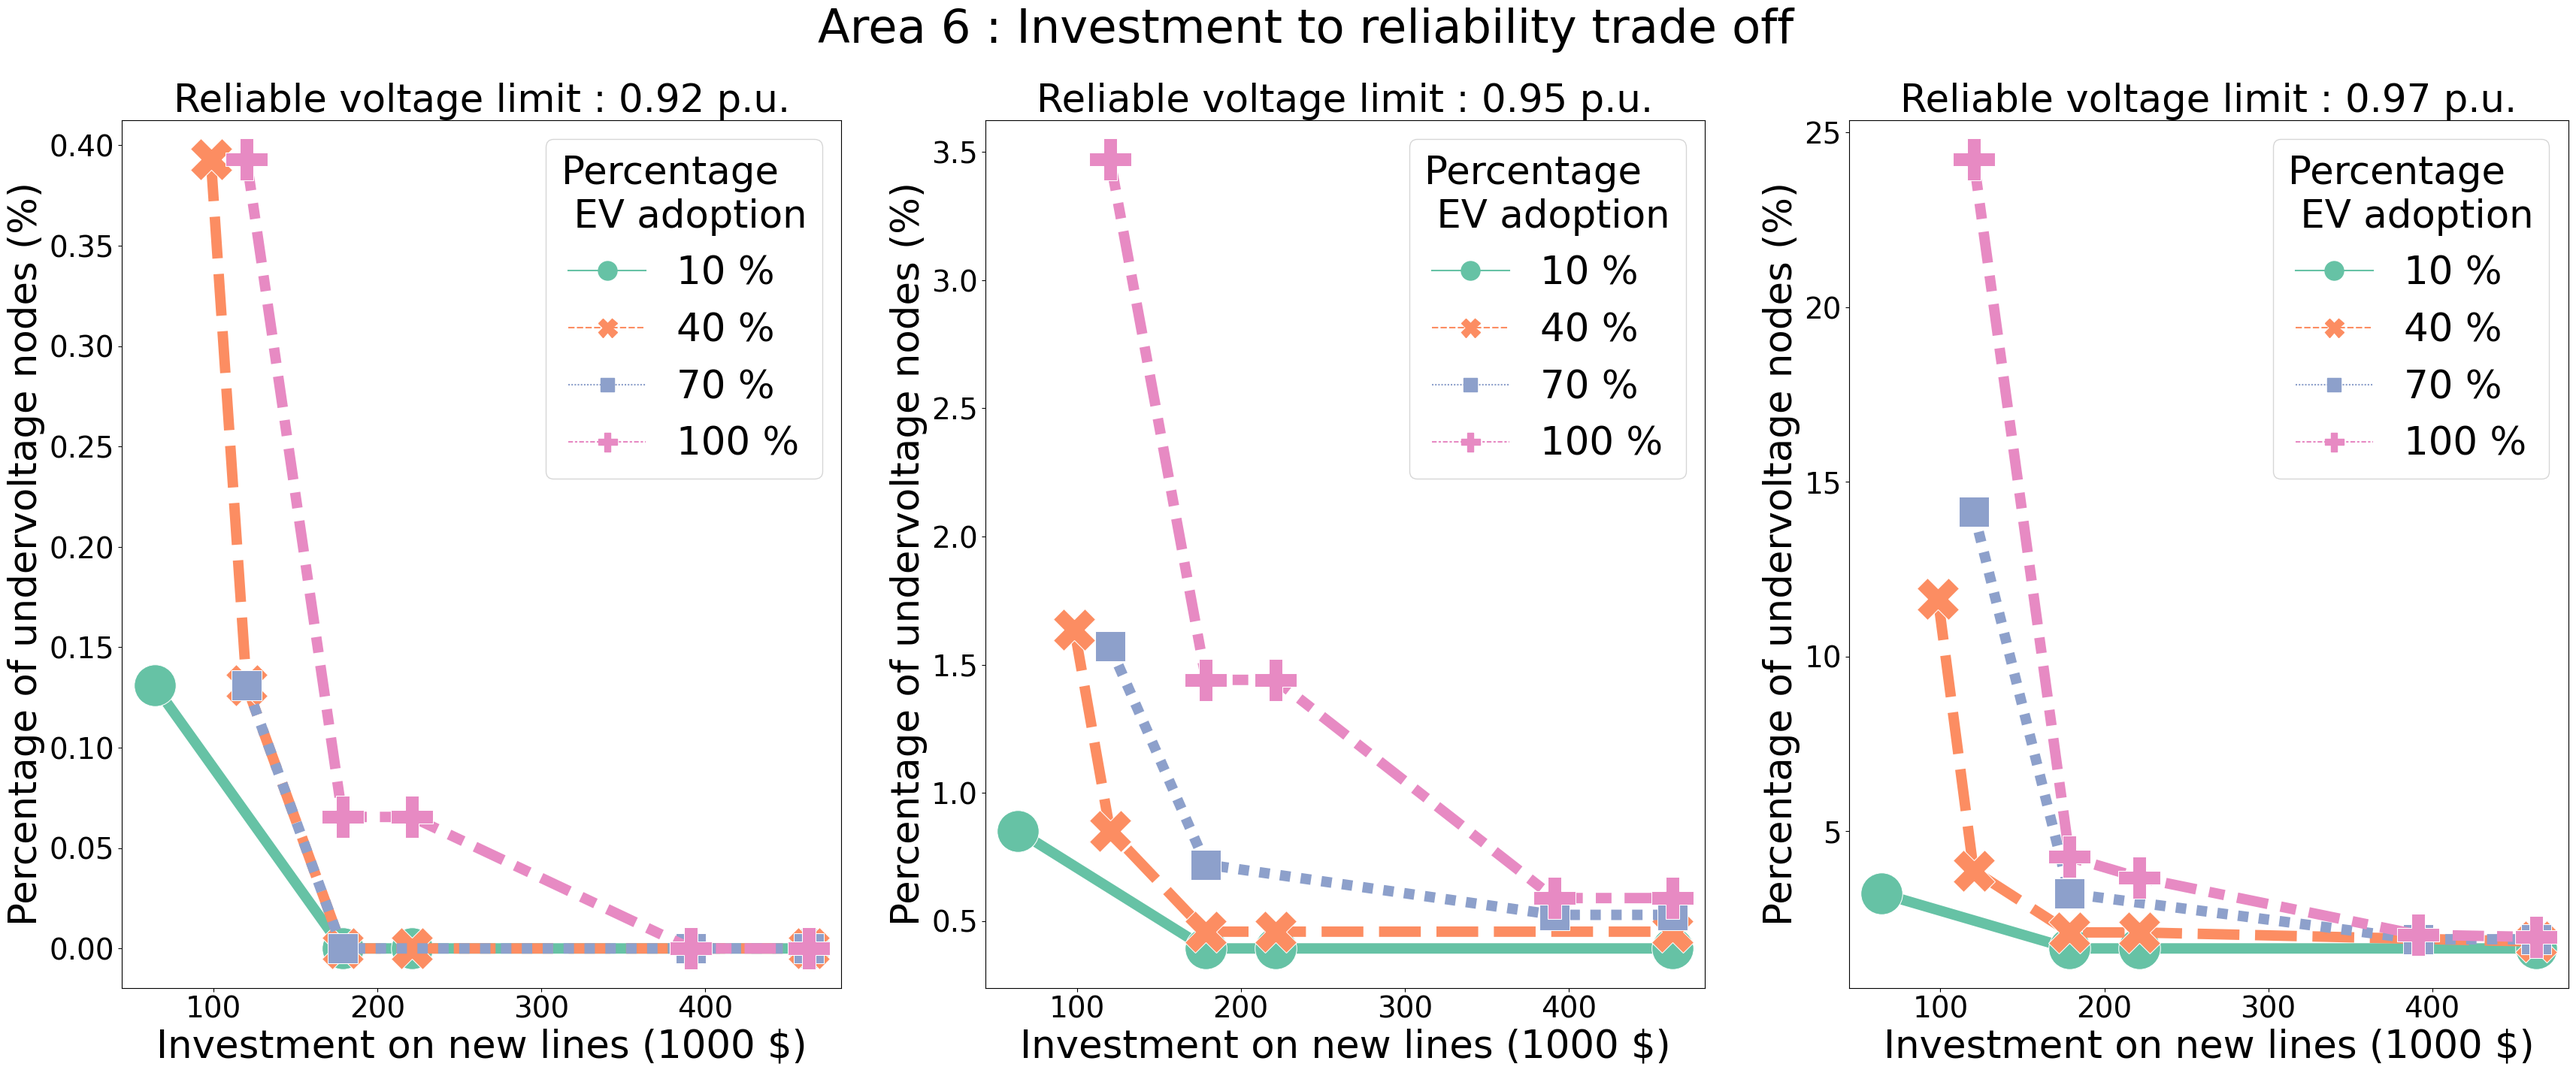
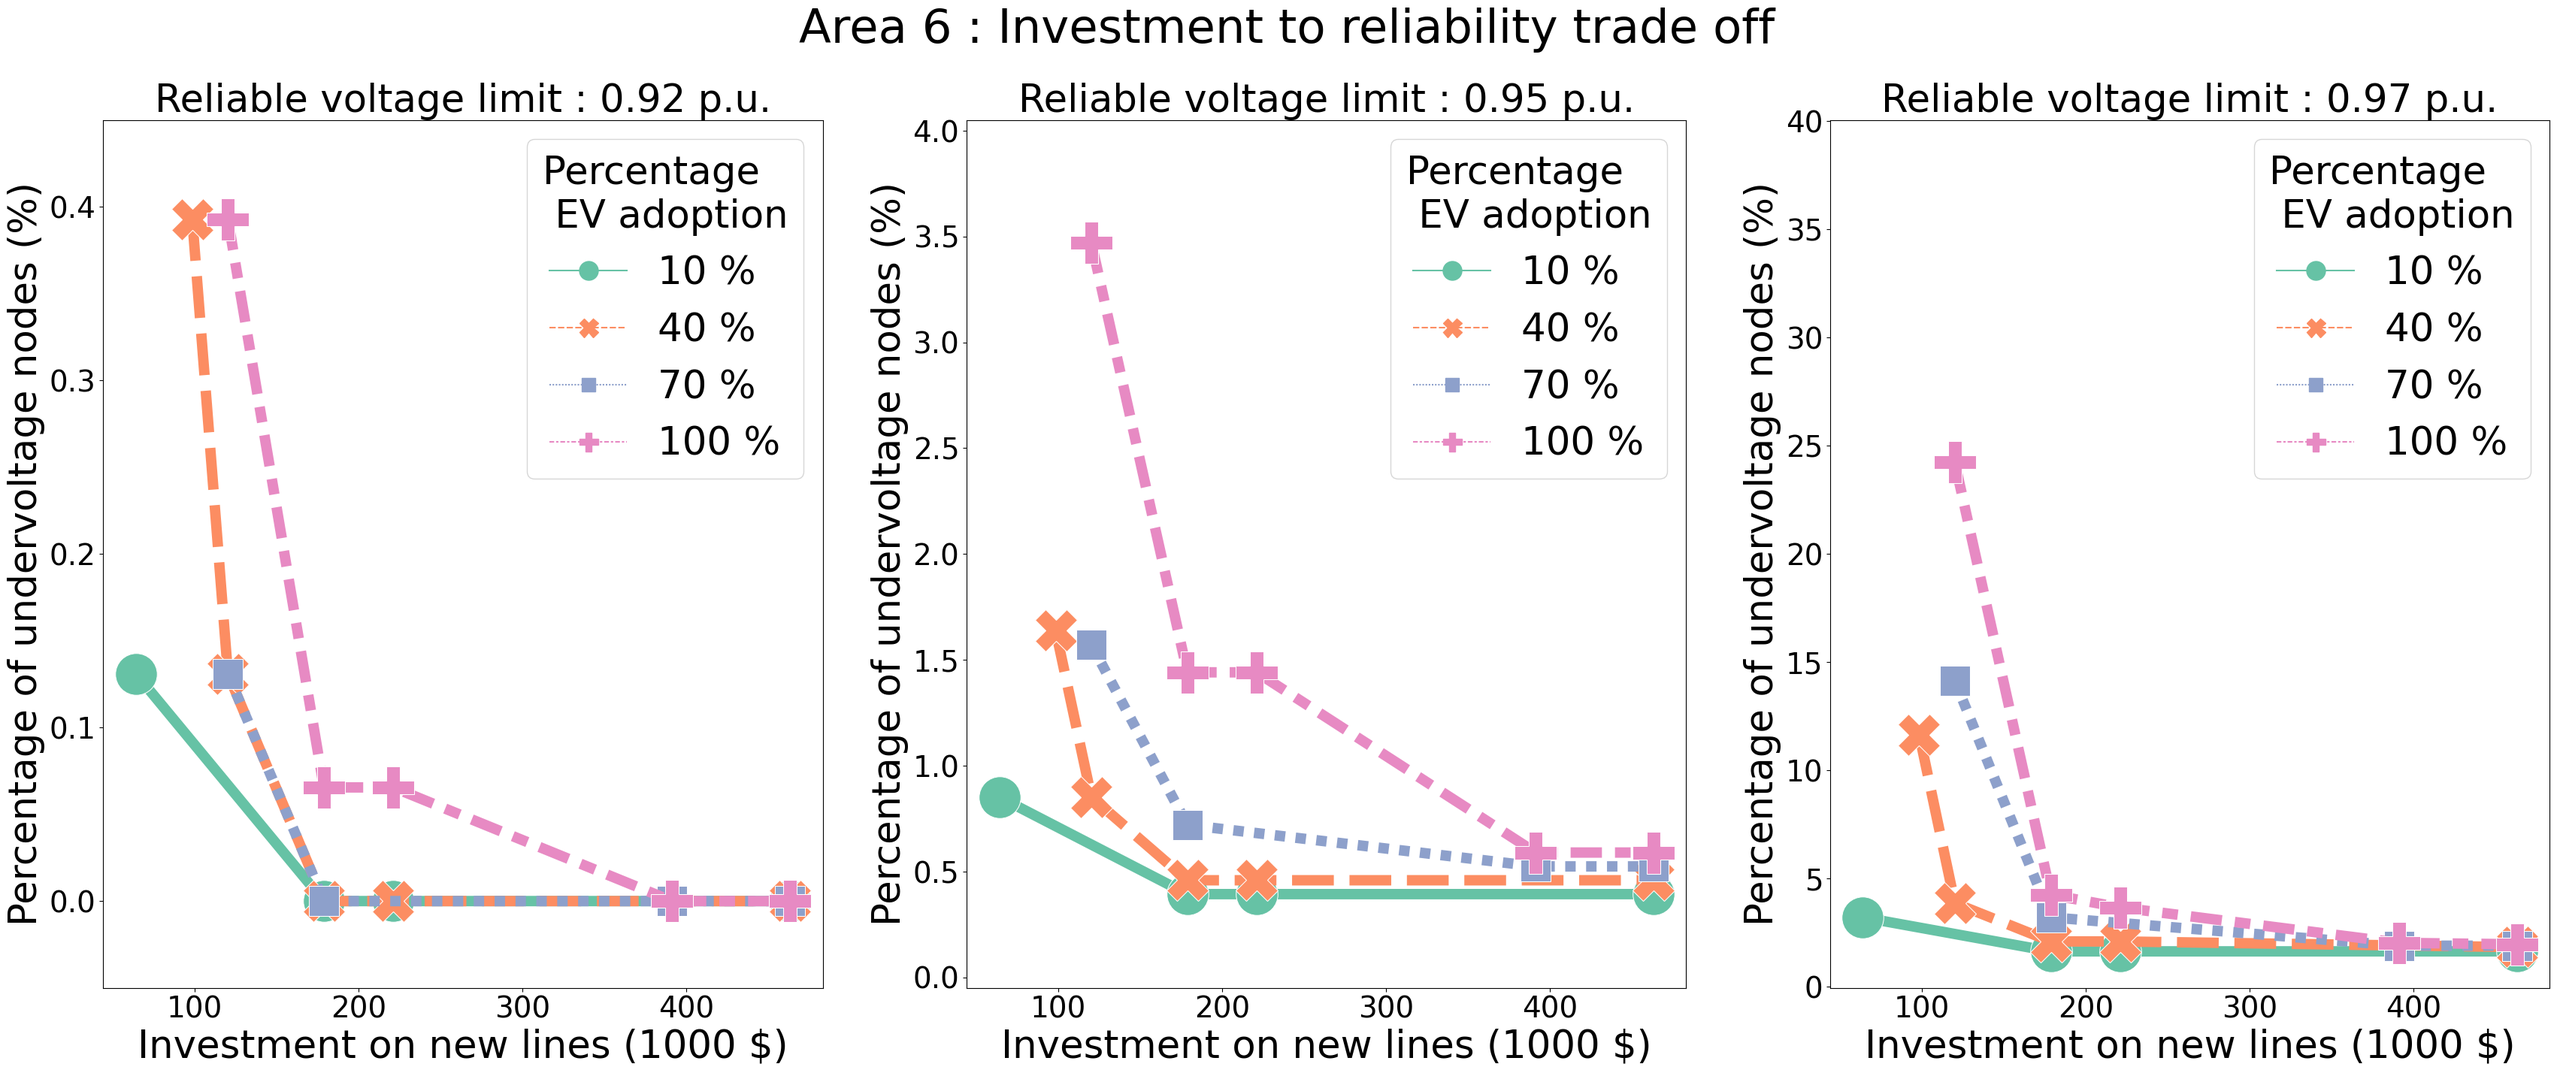
updated figures

diff --git a/pyEVCSlib.py b/pyEVCSlib.py
@@ -589,6 +589,7 @@ class EVCSFixture(unittest.TestCase):
         
         # ---- PLOT ----
         vrange = [0.92, 0.95, 0.97]
+        ylim = [0.45, 4.05, 40.05]
         fig, axs, no_ax = get_fig_from_ax(ax, ndim=(1,len(vrange)), **kwargs)
 
         # Line plot of undervoltage nodes to investment
@@ -617,6 +618,8 @@ class EVCSFixture(unittest.TestCase):
             axs[i].set_title(f"Reliable voltage limit : {vr} p.u.", fontsize=fontsize)
             axs[i].tick_params(axis='y',labelsize=tickfontsize)
             axs[i].tick_params(axis='x',labelsize=tickfontsize,rotation=label_rotation)
+
+            axs[i].set_ylim(-0.05, ylim[i])
 
             axs[i].legend(handles=axs[i].get_legend().legendHandles, 
                           labels = [f"{r} %" for r in adoptions], 
